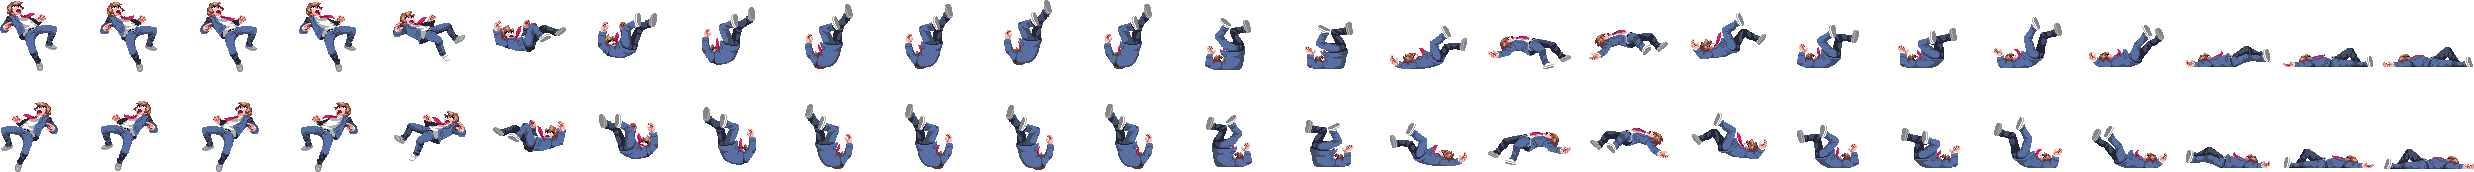
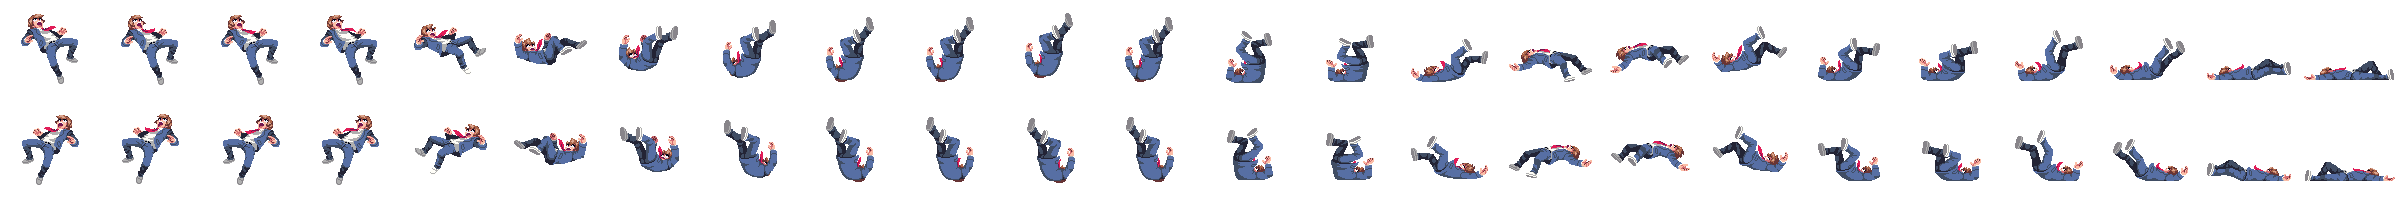
스쿨보이 - 상태 추가
스턴 추가 및 타이머 작업 수정

diff --git a/RiverCityGirls/playGround.cpp b/RiverCityGirls/playGround.cpp
@@ -138,8 +138,8 @@ HRESULT playGround::init()
 	IMAGE_MANAGER->addFrameImage("schoolboy_jump", L"resources/images/characters/enemy_schoolboy/SchoolBoyJump.png", 3, 2);
 	IMAGE_MANAGER->addFrameImage("schoolboy_jumpAttack", L"resources/images/characters/enemy_schoolboy/SchoolBoyJumpPunch.png", 6, 2);
 	//IMAGE_MANAGER->addFrameImage("schoolboy_groundDown", L"resources/images/characters/enemy_schoolboy/SchoolBoyKcockDown.png", 33, 2);
-	IMAGE_MANAGER->addFrameImage("schoolboy_knockDown", L"resources/images/characters/enemy_schoolboy/schoolBoyKnockDown.png", 25, 2);
-	IMAGE_MANAGER->addFrameImage("schoolboy_standUp", L"resources/images/characters/enemy_schoolboy/schoolBoyStandUp.png", 8, 2);
+	IMAGE_MANAGER->addFrameImage("schoolboy_knockDown", L"resources/images/characters/enemy_schoolboy/schoolBoyKnockDown2.png", 24, 2);
+	IMAGE_MANAGER->addFrameImage("schoolboy_standUp", L"resources/images/characters/enemy_schoolboy/schoolBoyStandUp2.png", 10, 2);
 	IMAGE_MANAGER->addFrameImage("schoolboy_run", L"resources/images/characters/enemy_schoolboy/SchoolBoyRun.png", 10, 2);
 	IMAGE_MANAGER->addFrameImage("schoolboy_skill", L"resources/images/characters/enemy_schoolboy/SchoolBoySandToss.png", 9, 2);
 	IMAGE_MANAGER->addFrameImage("schoolboy_stun", L"resources/images/characters/enemy_schoolboy/SchoolBoyStun.png", 4, 2);

diff --git a/RiverCityGirls/enemyManager.cpp b/RiverCityGirls/enemyManager.cpp
@@ -9,25 +9,25 @@
 
 HRESULT EnemyManager::init()
 {
-	//_schoolBoy = new SchoolBoy;
-	//_schoolBoy->init();
-	//_schoolBoy->setEnemyManager(this);
-	//_enemies.push_back(_schoolBoy);
-	//
+	_schoolBoy = new SchoolBoy;
+	_schoolBoy->init();
+	_schoolBoy->setEnemyManager(this);
+	_enemies.push_back(_schoolBoy);
+	
 	//_schoolGirl = new SchoolGirl;
 	//_schoolGirl->init();
 	//_schoolGirl->setEnemyManager(this);
 	//_enemies.push_back(_schoolGirl);
-
-	/*_cheerGirl = new CheerGirl;
-	_cheerGirl->init();
-	_cheerGirl->setEnemyManager(this);
-	_enemies.push_back(_cheerGirl);
-
-	_boss = new Boss;
-	_boss->init();
-	_boss->setEnemyManager(this);
-	_enemies.push_back(_boss);*/
+	//
+	//_cheerGirl = new CheerGirl;
+	//_cheerGirl->init();
+	//_cheerGirl->setEnemyManager(this);
+	//_enemies.push_back(_cheerGirl);
+	//
+	//_boss = new Boss;
+	//_boss->init();
+	//_boss->setEnemyManager(this);
+	//_enemies.push_back(_boss);
 
 	return S_OK;
 }

diff --git a/RiverCityGirls/SchoolGirl.cpp b/RiverCityGirls/SchoolGirl.cpp
@@ -308,10 +308,14 @@ Vector3 playerPos = _enemyManager->getPlayerPosition();
 		else loop = true;
 		_ani->setPlayFrame(_enemyImg->getMaxFrameX(), _enemyImg->getMaxFrameX() * 2 - 1, false, loop);
 	}
-	else
+	else // DIRECTION::RIGHT
 	{
 		bool loop;
-		if (_state == ENEMY_STATE::HIT) loop = false;
+		if (_state == ENEMY_STATE::HIT)
+		{
+			loop = false;
+			_ani->setPlayFrame(0, 2, false, loop);
+		}
 		else loop = true;
 		_ani->setPlayFrame(0, _enemyImg->getMaxFrameX() - 1, false, loop);
 	}

diff --git a/RiverCityGirls/CheerGirl.cpp b/RiverCityGirls/CheerGirl.cpp
@@ -10,7 +10,6 @@ void CheerGirl::init()
 	_direction = DIRECTION::RIGHT;
 	aniPlay(_state, _direction);
 	_attackCount = 0;
-	_dashAttackCount = 0;
 	_gravity = 0;
 	_jumpPower = 0;
 	_hp = 100;
